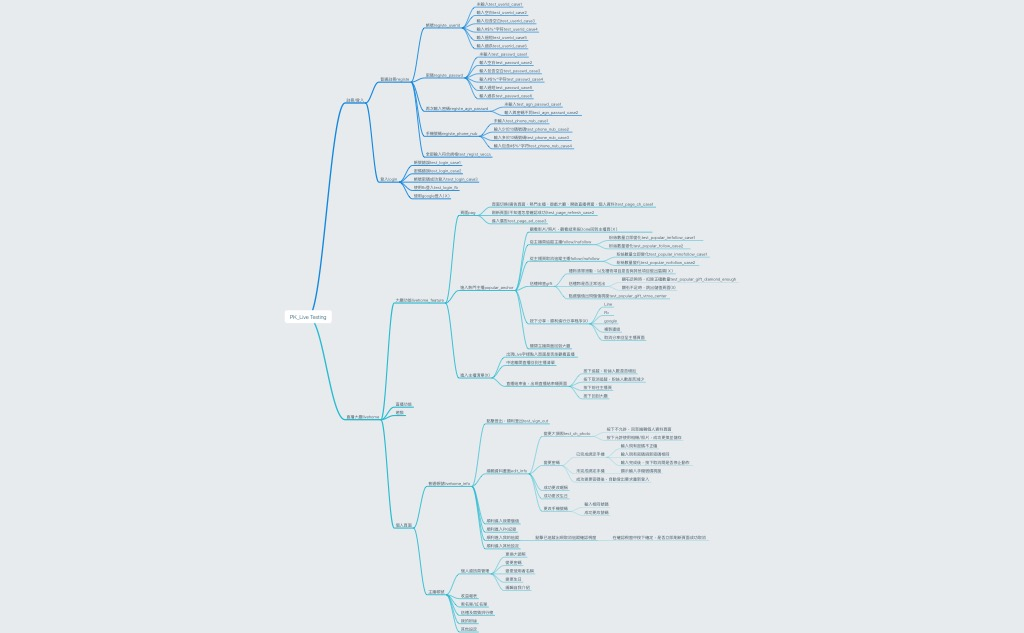
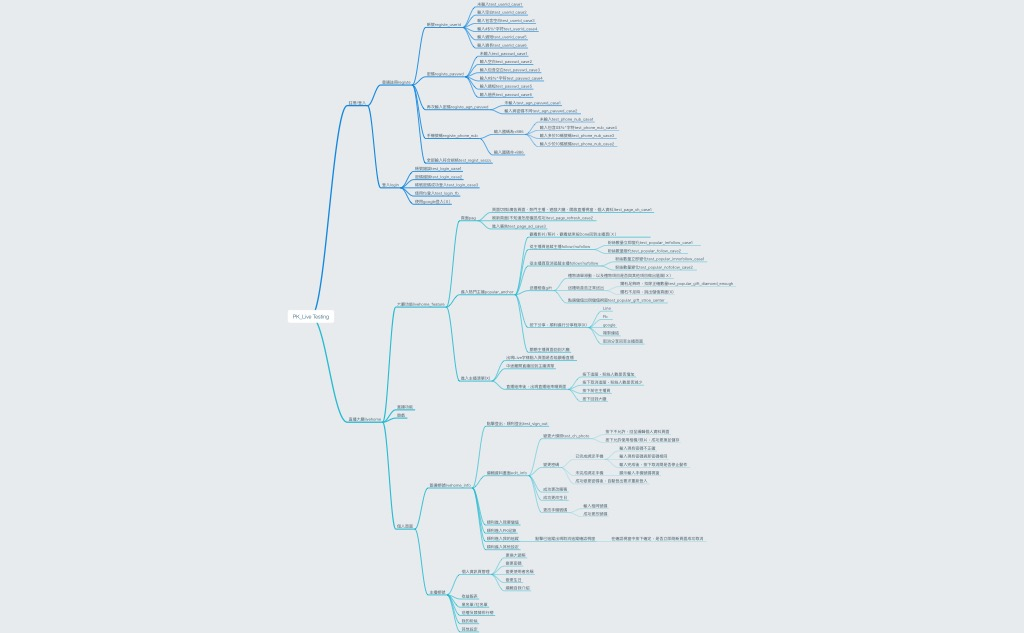
import/setup.py : Change ios version from 10.0 to 10.3. pk_test/PK_Live Testing .mindnode/ : Add anchor account relative test case in profile page.

diff --git a/import/setup.py b/import/setup.py
@@ -13,7 +13,7 @@ def setUp(self):    #開啟appium，載入app，3層
           desired_capabilities={
               'app': app,
               'platformName': 'iOS',
-              'platformVersion': '10.0',
+              'platformVersion': '10.3',
               'deviceName': 'iPhone 6',
           })
     sleep(1)
@@ -34,7 +34,7 @@ def setUp1(self):    #開啟appium，載入app，2層
           desired_capabilities={
               'app': app,
               'platformName': 'iOS',
-              'platformVersion': '10.0',
+              'platformVersion': '10.3',
               'deviceName': 'iPhone 6',
           })
     sleep(1)
@@ -55,7 +55,7 @@ def setUp2(self):    #開啟appium，載入app，4層
           desired_capabilities={
               'app': app,
               'platformName': 'iOS',
-              'platformVersion': '10.0',
+              'platformVersion': '10.3',
               'deviceName': 'iPhone 6',
           })
     sleep(1)
